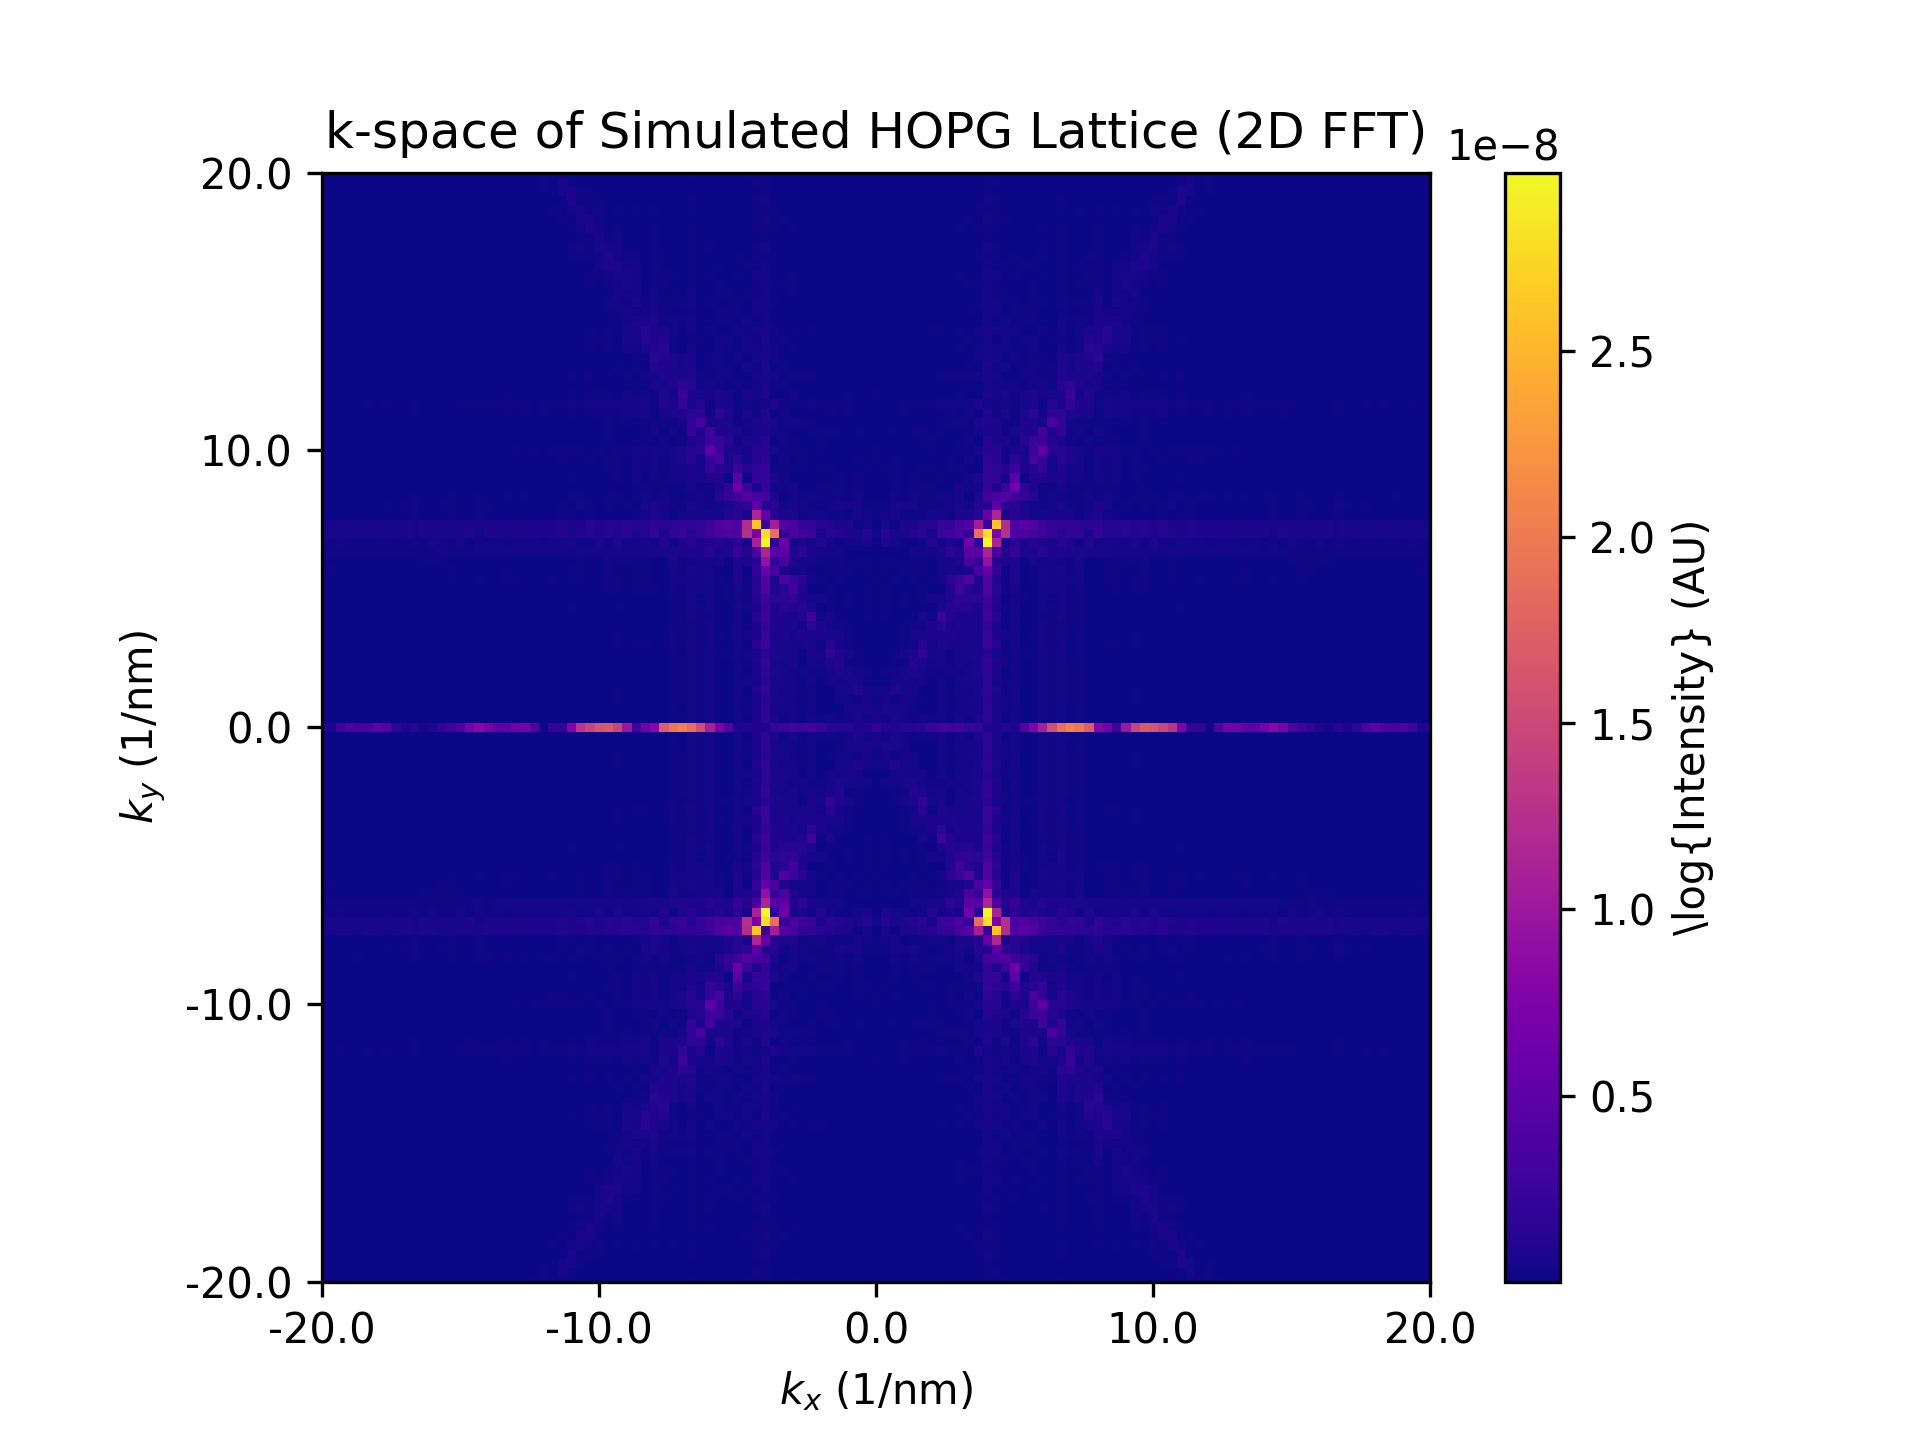
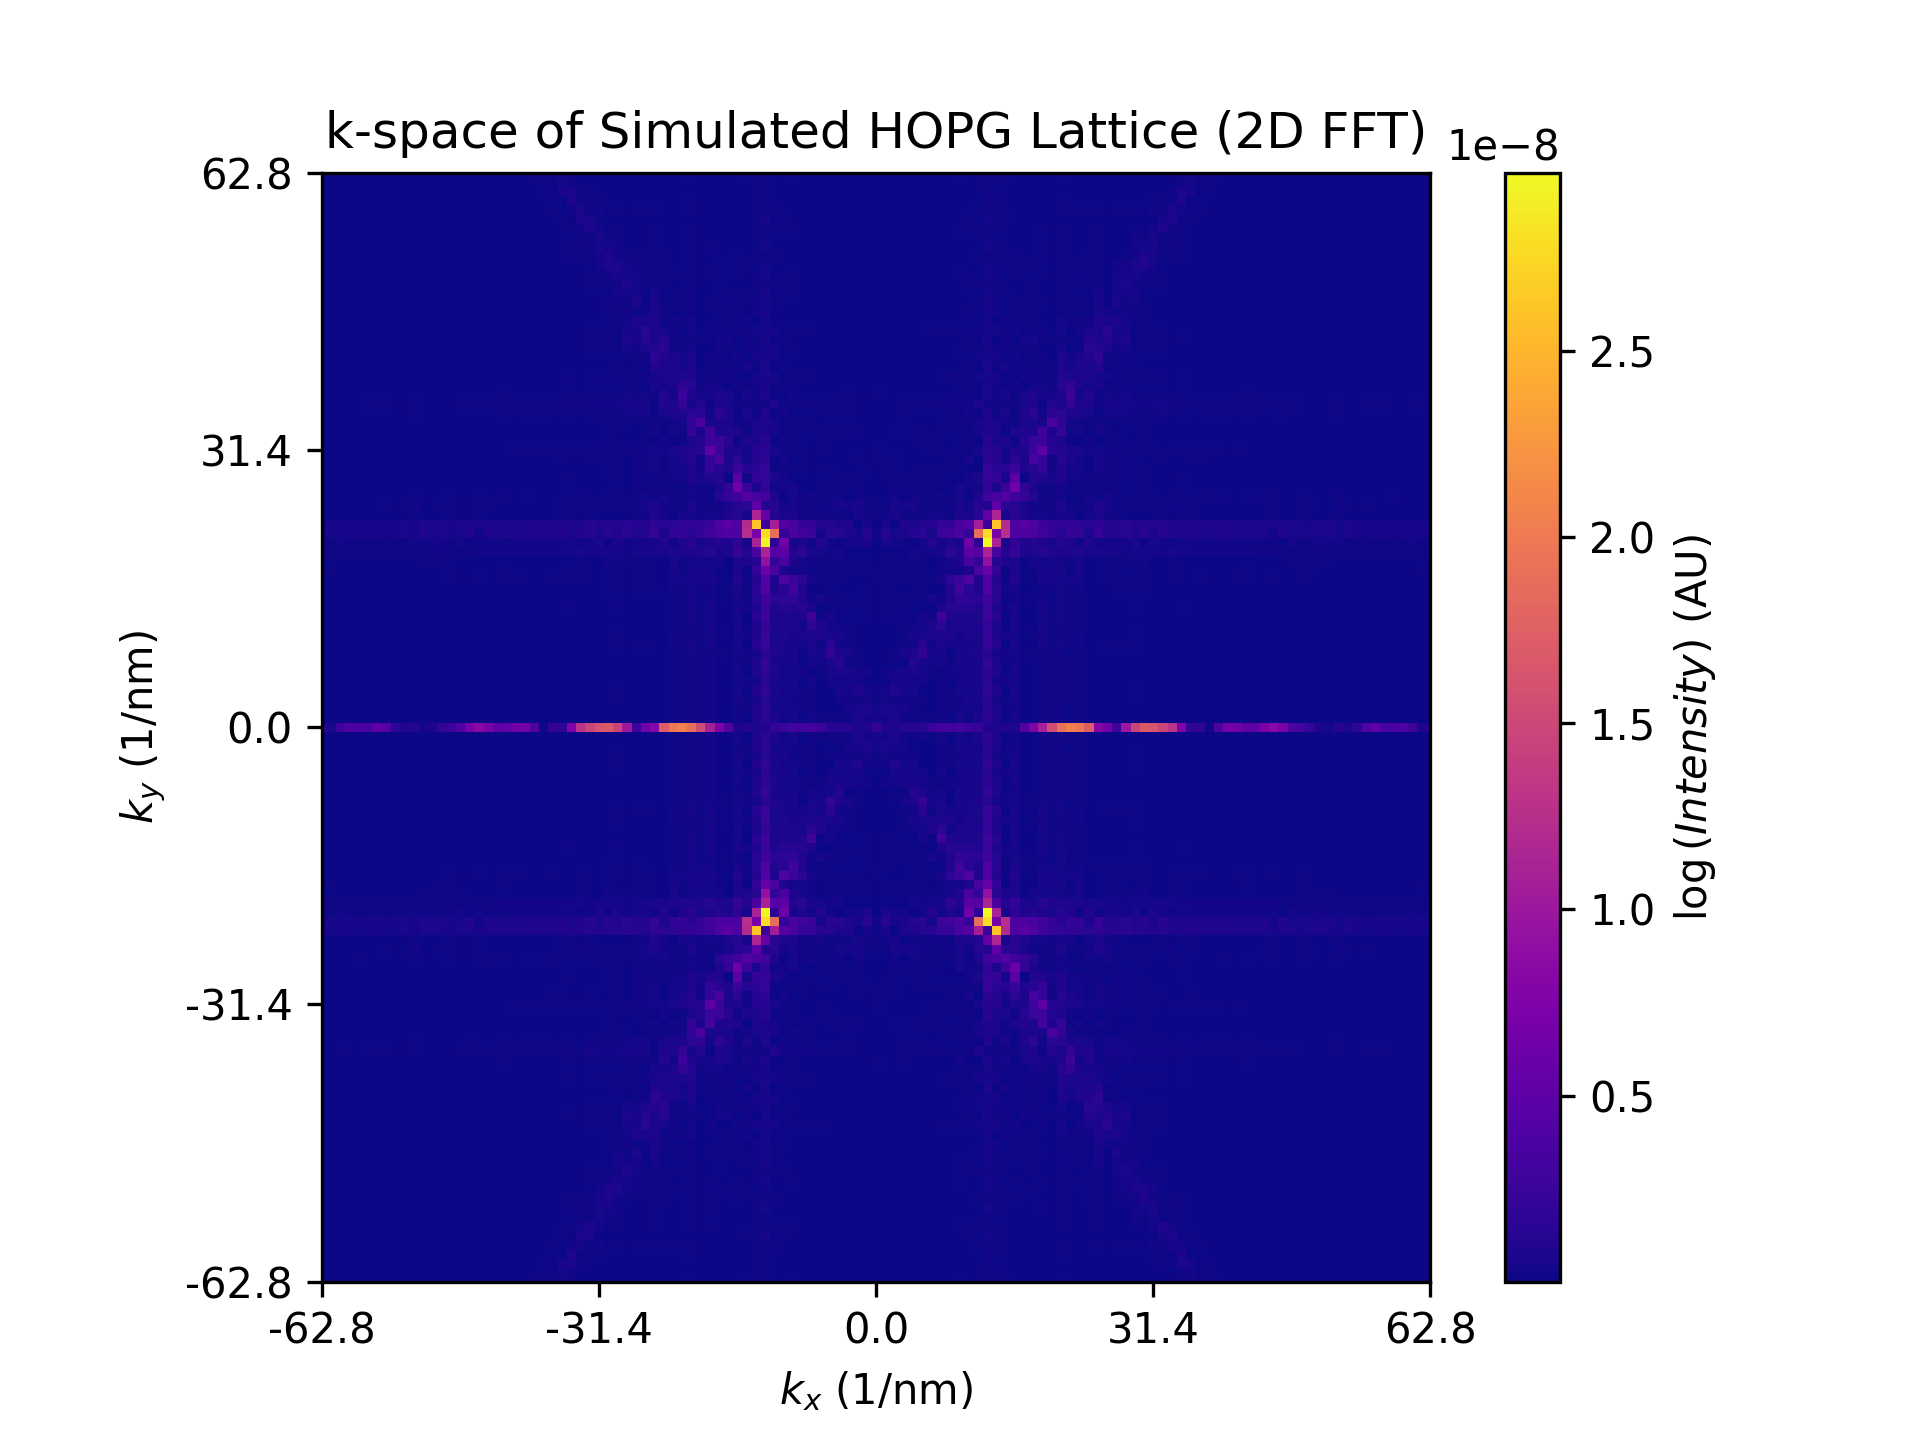
Added a way to highlight the peaks on the image

diff --git a/FFTSim.py b/FFTSim.py
@@ -71,8 +71,9 @@ def simulate_hopg_lattice(n_harmonics, k, theta, real_space_size,order,n):
     # Plot reciprocal space (2D FFT result)
     plt.title("k-space of Simulated HOPG Lattice (2D FFT)")
     plt.imshow(np.log(1 + magnitude_reciprocal), cmap='plasma')  # 1 + data for contrast
-    kx = np.fft.fftshift(np.fft.fftfreq(n, d=(x[1] - x[0])))
-    ky = np.fft.fftshift(np.fft.fftfreq(n, d=(y[1] - y[0])))
+    dx = real_space_size / n_pts
+    kx = np.fft.fftshift(np.fft.fftfreq(n, d=dx)) * ( np.pi)
+    ky = np.fft.fftshift(np.fft.fftfreq(n, d=dx))* (np.pi)
 
     plt.xlabel(r"$k_x$ (1/nm)")
     plt.ylabel(r"$k_y$ (1/nm)")
@@ -81,8 +82,72 @@ def simulate_hopg_lattice(n_harmonics, k, theta, real_space_size,order,n):
     plt.ylim(n//2-scale_length,n//2+scale_length)
     plt.xticks(ticks=np.linspace(n//2-scale_length, n//2+scale_length, 5), labels=np.round(np.linspace(kx[n//2-scale_length], kx[n//2+scale_length], 5), 1))
     plt.yticks(ticks=np.linspace(n//2-scale_length, n//2+scale_length, 5), labels=np.round(np.linspace(ky[n//2-scale_length], ky[n//2+scale_length], 5), 1))
-    plt.colorbar(label=r'\log{Intensity} (AU)')
+    plt.colorbar(label=r'$\log{(Intensity)}$ (AU)')
     plt.savefig(f"Produced_Plots/FFTSIM/HOPG_Lattice_Reciprocal_Space_{real_space_size}nm.png", dpi=300)
+    plt.show()
+    # Highlight and number spots of highest intensity in reciprocal space
+    num_spots = 6  # Number of spots to highlight
+    indices = np.unravel_index(np.argsort(magnitude_reciprocal.ravel())[::-1], magnitude_reciprocal.shape)
+    spot_coords = list(zip(indices[0], indices[1]))
+
+    # Filter out spots that are within a 5px radius of each other and closest to the origin
+    filtered_spot_coords = []
+    for y, x in spot_coords:
+        if all(np.sqrt((y - fy)**2 + (x - fx)**2) > 5 for fy, fx in filtered_spot_coords):
+            filtered_spot_coords.append((y, x))
+        if len(filtered_spot_coords) >= num_spots:
+            break
+
+    # Sort the filtered spots by their distance to the origin
+    filtered_spot_coords.sort(key=lambda coord: np.sqrt((coord[0] - n//2)**2 + (coord[1] - n//2)**2))
+
+    # Calculate the pixel size in k-space
+    kx_pixel_size = kx[1] - kx[0]
+    ky_pixel_size = ky[1] - ky[0]
+    print(f"One pixel represents {kx_pixel_size:.5f} 1/nm in k_x direction")
+    print(f"One pixel represents {ky_pixel_size:.5f} 1/nm in k_y direction")
+
+    plt.title("k-space of HOPG with Lattice Vectors")
+    plt.imshow(np.log(1 + magnitude_reciprocal), cmap='plasma')
+    plt.xlabel(r"$k_x$ (1/nm)")
+    plt.ylabel(r"$k_y$ (1/nm)")
+    plt.xlim(n//2-scale_length, n//2+scale_length)
+    plt.ylim(n//2-scale_length, n//2+scale_length)
+    plt.xticks(ticks=np.linspace(n//2-scale_length, n//2+scale_length, 5), labels=np.round(np.linspace(kx[n//2-scale_length], kx[n//2+scale_length], 5), 1))
+    plt.yticks(ticks=np.linspace(n//2-scale_length, n//2+scale_length, 5), labels=np.round(np.linspace(ky[n//2-scale_length], ky[n//2+scale_length], 5), 1))
+    plt.colorbar(label=r'$\log{(Intensity()}$ (AU)')
+
+    for i, (y, x) in enumerate(filtered_spot_coords):
+        plt.scatter(x, y, edgecolor='red', facecolor='none', s=100)
+        plt.text(x, y + 5, str(i+1), color='white', fontsize=8, ha='center', va='center')  # Adjusted y position for label
+
+
+    # Sort the filtered spots by their distance to the origin
+    filtered_spot_coords.sort(key=lambda coord: np.sqrt((coord[0] - n//2)**2 + (coord[1] - n//2)**2))
+
+    for i in range(len(filtered_spot_coords)):
+        min_dist = float('inf')
+        closest_j = None
+        for j in range(len(filtered_spot_coords)):
+            if i != j:
+                dist = np.sqrt((filtered_spot_coords[i][0] - filtered_spot_coords[j][0])**2 + (filtered_spot_coords[i][1] - filtered_spot_coords[j][1])**2)
+                if dist < min_dist:
+                    min_dist = dist
+                    closest_j = j
+        if closest_j is not None:
+            plt.plot([filtered_spot_coords[i][1], filtered_spot_coords[closest_j][1]], [filtered_spot_coords[i][0], filtered_spot_coords[closest_j][0]], 'r-')
+    plt.plot([filtered_spot_coords[3][1], filtered_spot_coords[5][1]], [filtered_spot_coords[3][0], filtered_spot_coords[5][0]], 'r-')
+    plt.plot([filtered_spot_coords[2][1], filtered_spot_coords[4][1]], [filtered_spot_coords[2][0], filtered_spot_coords[4][0]], 'r-')
+    for i, (y, x) in enumerate(filtered_spot_coords):
+        print(f"Spot {i+1}: (kx, ky) = ({kx[x]:.2f}, {ky[y]:.2f})")
+    # Draw arrows from the center to each of the spots
+    center_x, center_y = n // 2, n // 2
+    for i, (y, x) in enumerate(filtered_spot_coords):
+        dx = x - center_x
+        dy = y - center_y
+        arrow_length = np.sqrt(dx**2 + dy**2) - 7  # shorten the arrow by 5 units
+        plt.arrow(center_x, center_y, dx * (arrow_length / np.sqrt(dx**2 + dy**2)), dy * (arrow_length / np.sqrt(dx**2 + dy**2)), color='yellow', head_width=3, head_length=3)
+    plt.savefig(f"Produced_Plots/FFTSIM/HOPG_Lattice_Reciprocal_Space_Highlighted_{real_space_size}nm.png", dpi=300)
     plt.show()
 
 
@@ -90,7 +155,7 @@ def simulate_hopg_lattice(n_harmonics, k, theta, real_space_size,order,n):
 a = 0.246  # lattice constant for graphene in nm
 k = 2 * np.pi / a  # wave vector
 n_pts = 3000 # size of the simulation grid
-real_space_size = 3 # nm
+real_space_size = 3.5 # nm
 theta = np.pi / 3  
 n_harmonics = 10  # number of harmonics to include in the lattice
 simulate_hopg_lattice(n_harmonics, k, theta, real_space_size,10,n_pts)

diff --git a/kSpace.py b/kSpace.py
@@ -34,11 +34,36 @@ standard_error = np.std(fourth_column_values) / np.sqrt(len(fourth_column_values
 # Print the results in scientific notation
 
 a = 0.2461e-9 #lattice parameter in meters
-#k = 4 * np.pi / (a*np.sqrt(3))
-k = 2*np.pi/a 
-print(f'Desired value: {k/2:.2e}')
+k = 4 * np.pi / (a*np.sqrt(3))
+#k = 2*np.pi/a 
+print(f'Desired value: {k:.2e}')
 print(f"Mean: {mean_value:.2e}")
 print(f"Standard Error: {standard_error:.2e}")
 diff = abs(mean_value - k/2)
 sigma = diff/standard_error
 print(f"This many sigma away: {sigma}")
+
+import matplotlib.pyplot as plt
+import matplotlib.image as mpimg
+
+# Load the image
+image_path = os.path.join('RawData', 'k-vec.png')
+image = mpimg.imread(image_path)
+
+# Create a figure and axis
+fig, ax = plt.subplots()
+
+# Display the image
+ax.imshow(image)
+
+# Set the x and y axis labels
+ax.set_xlabel('X-axis label')
+ax.set_ylabel('Y-axis label')
+
+# Save the figure with axes to the Produced_Plots directory
+output_path = os.path.join('Produced_Plots', 'k-vec_with_axes.png')
+os.makedirs('Produced_Plots', exist_ok=True)
+plt.savefig(output_path)
+
+# Show the plot (optional)
+plt.show()
